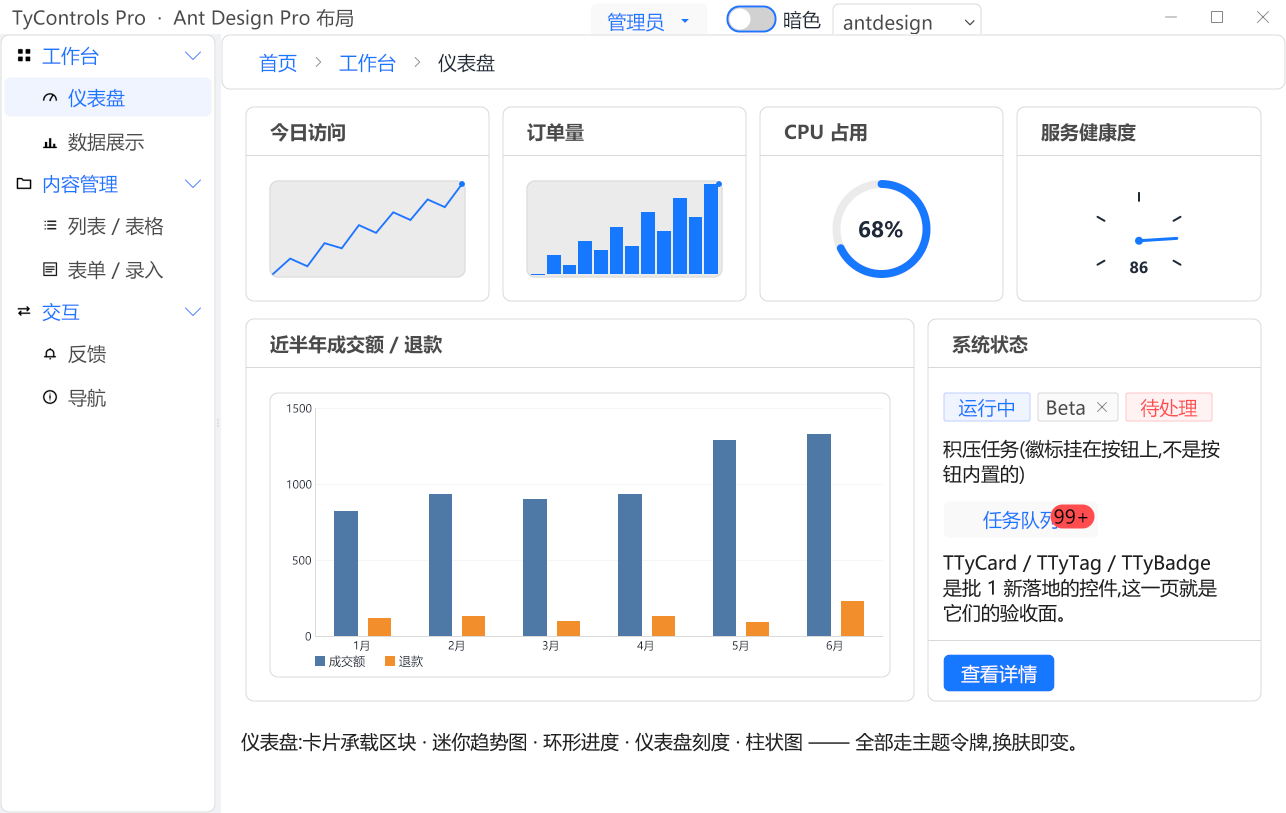
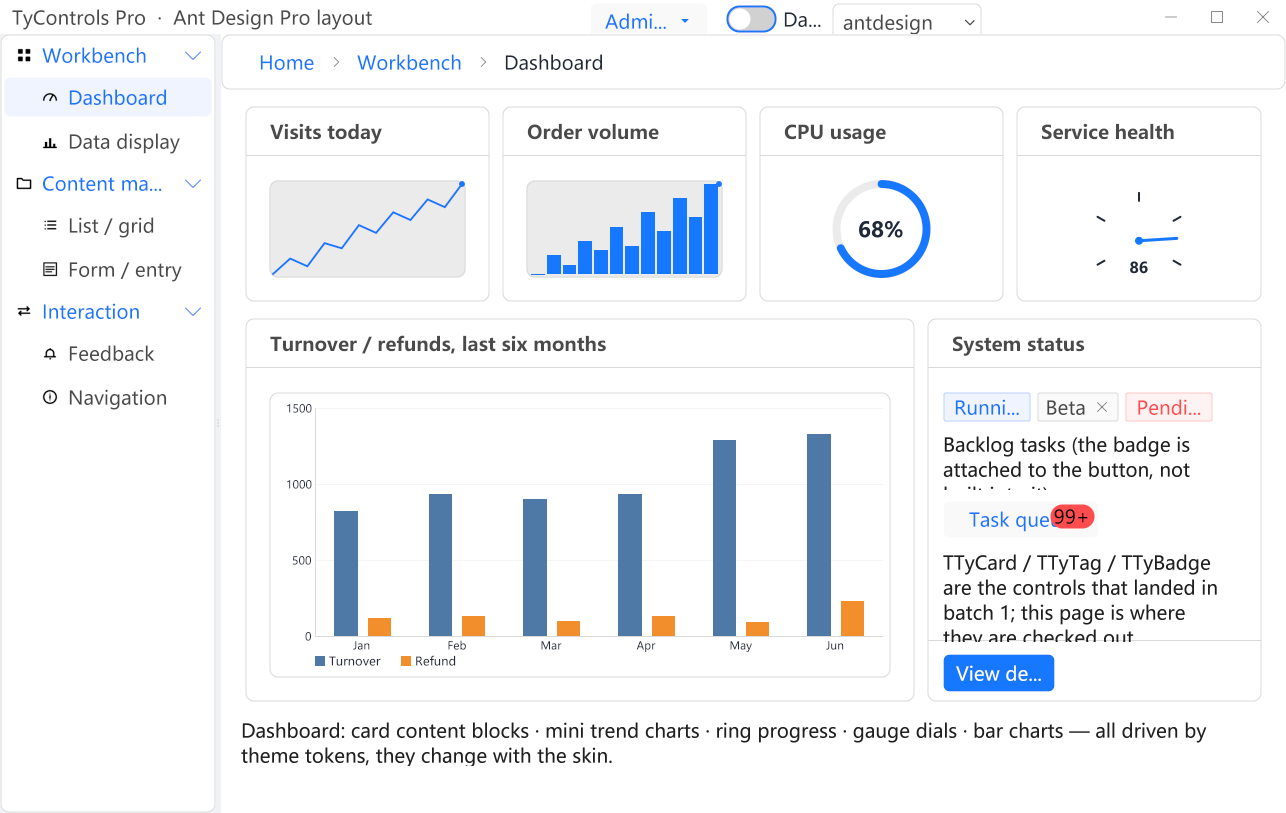
docs: re-shoot the README screenshots in English
The examples are English now, so the ten README screenshots — the four-skin
Ant Design montage, the light/dark/green gallery, and the grid / tree / rich-input
shots — were regenerated with no zh_CN catalogue loaded, and the README.en note
that they were still Chinese is gone.

Some strings truncate where English runs longer than the Chinese the .lfm widths
were sized for (a sider item, a couple of tags, the badge that already had its own
follow-up). That is a demo-layout gap, not a translation one, and is tracked
separately; the shots read clearly and show the theme system, which is their job.

diff --git a/README.en.md b/README.en.md
@@ -38,9 +38,6 @@ shows how far a theme can go — translucent controls floating over a photo back
 | **`TTyStringGrid`** — frozen columns, row-number gutter, summary band, cell mark colours<br>![data grid](docs/images/grid.png) | **`TTyTreeView`** — virtual tree, multi-column, tri-state checks<br>![virtual tree](docs/images/treeview.png) |
 | **Rich input controls** — numeric / currency / mask / slider / calculator edits<br>![rich input](docs/images/inputs.png) | |
 
-> Some screenshots still show Chinese UI; an English render will land once the examples are
-> internationalised.
-
 ---
 
 ## Features
